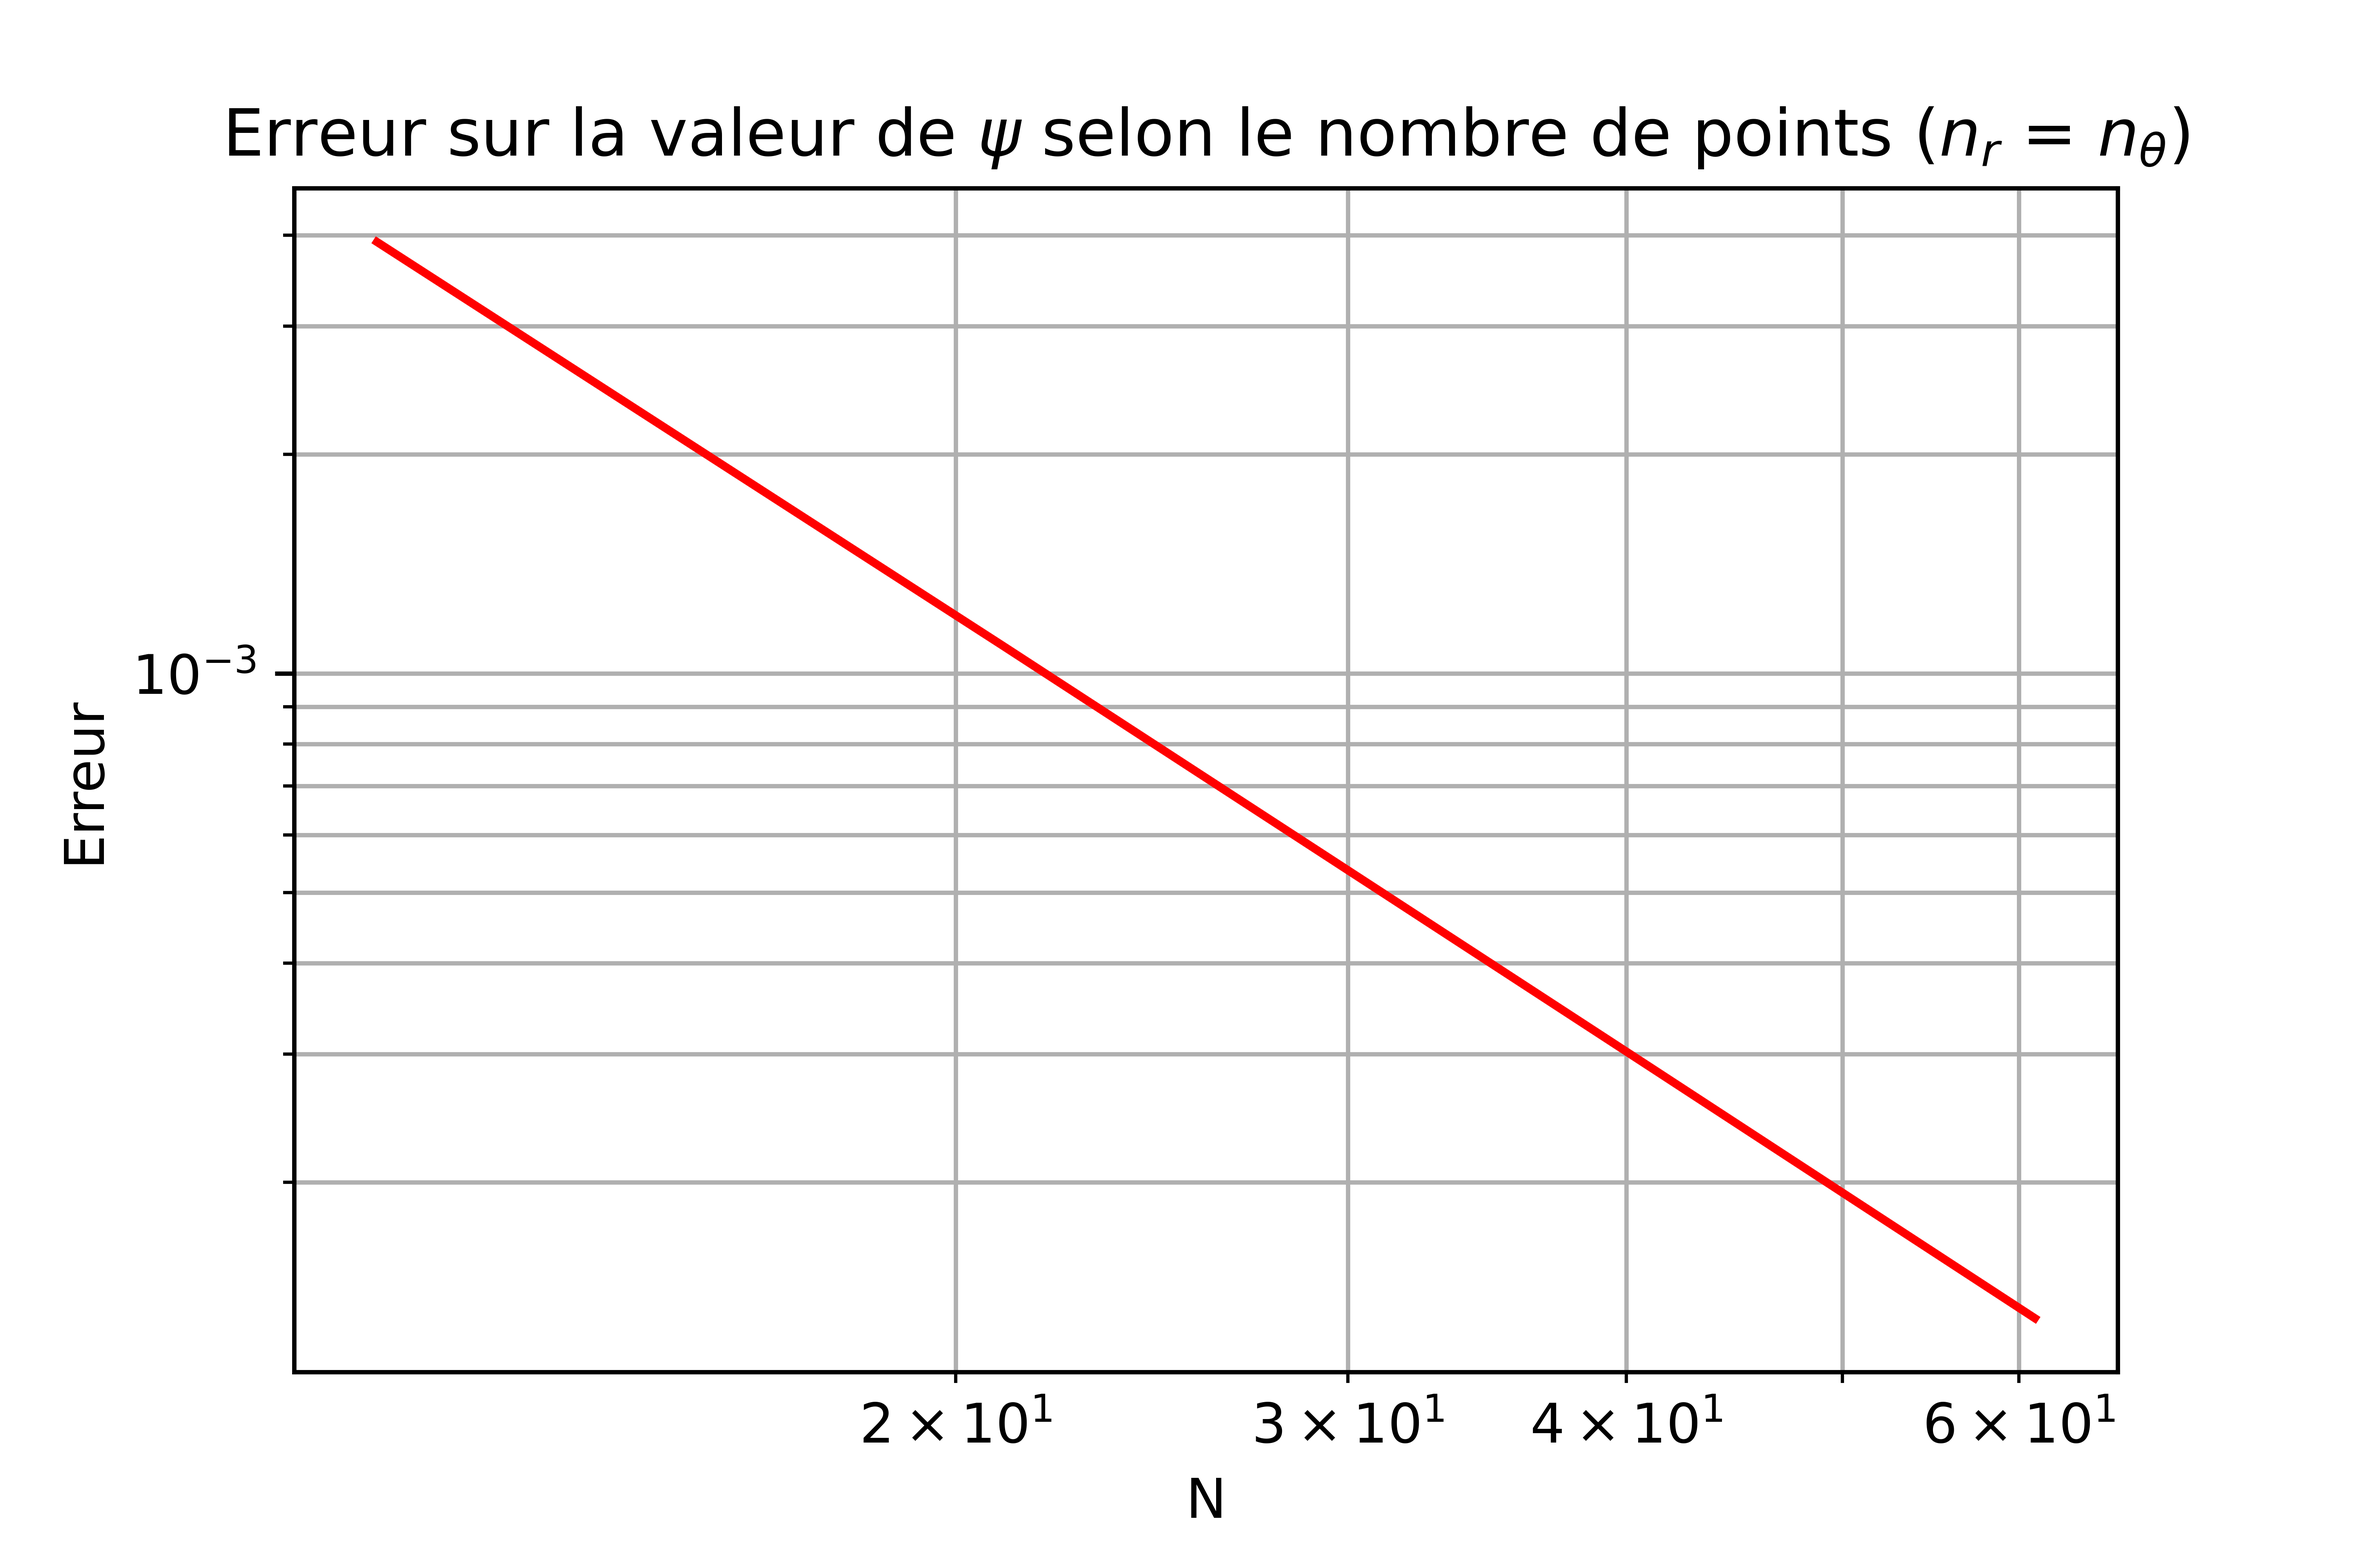
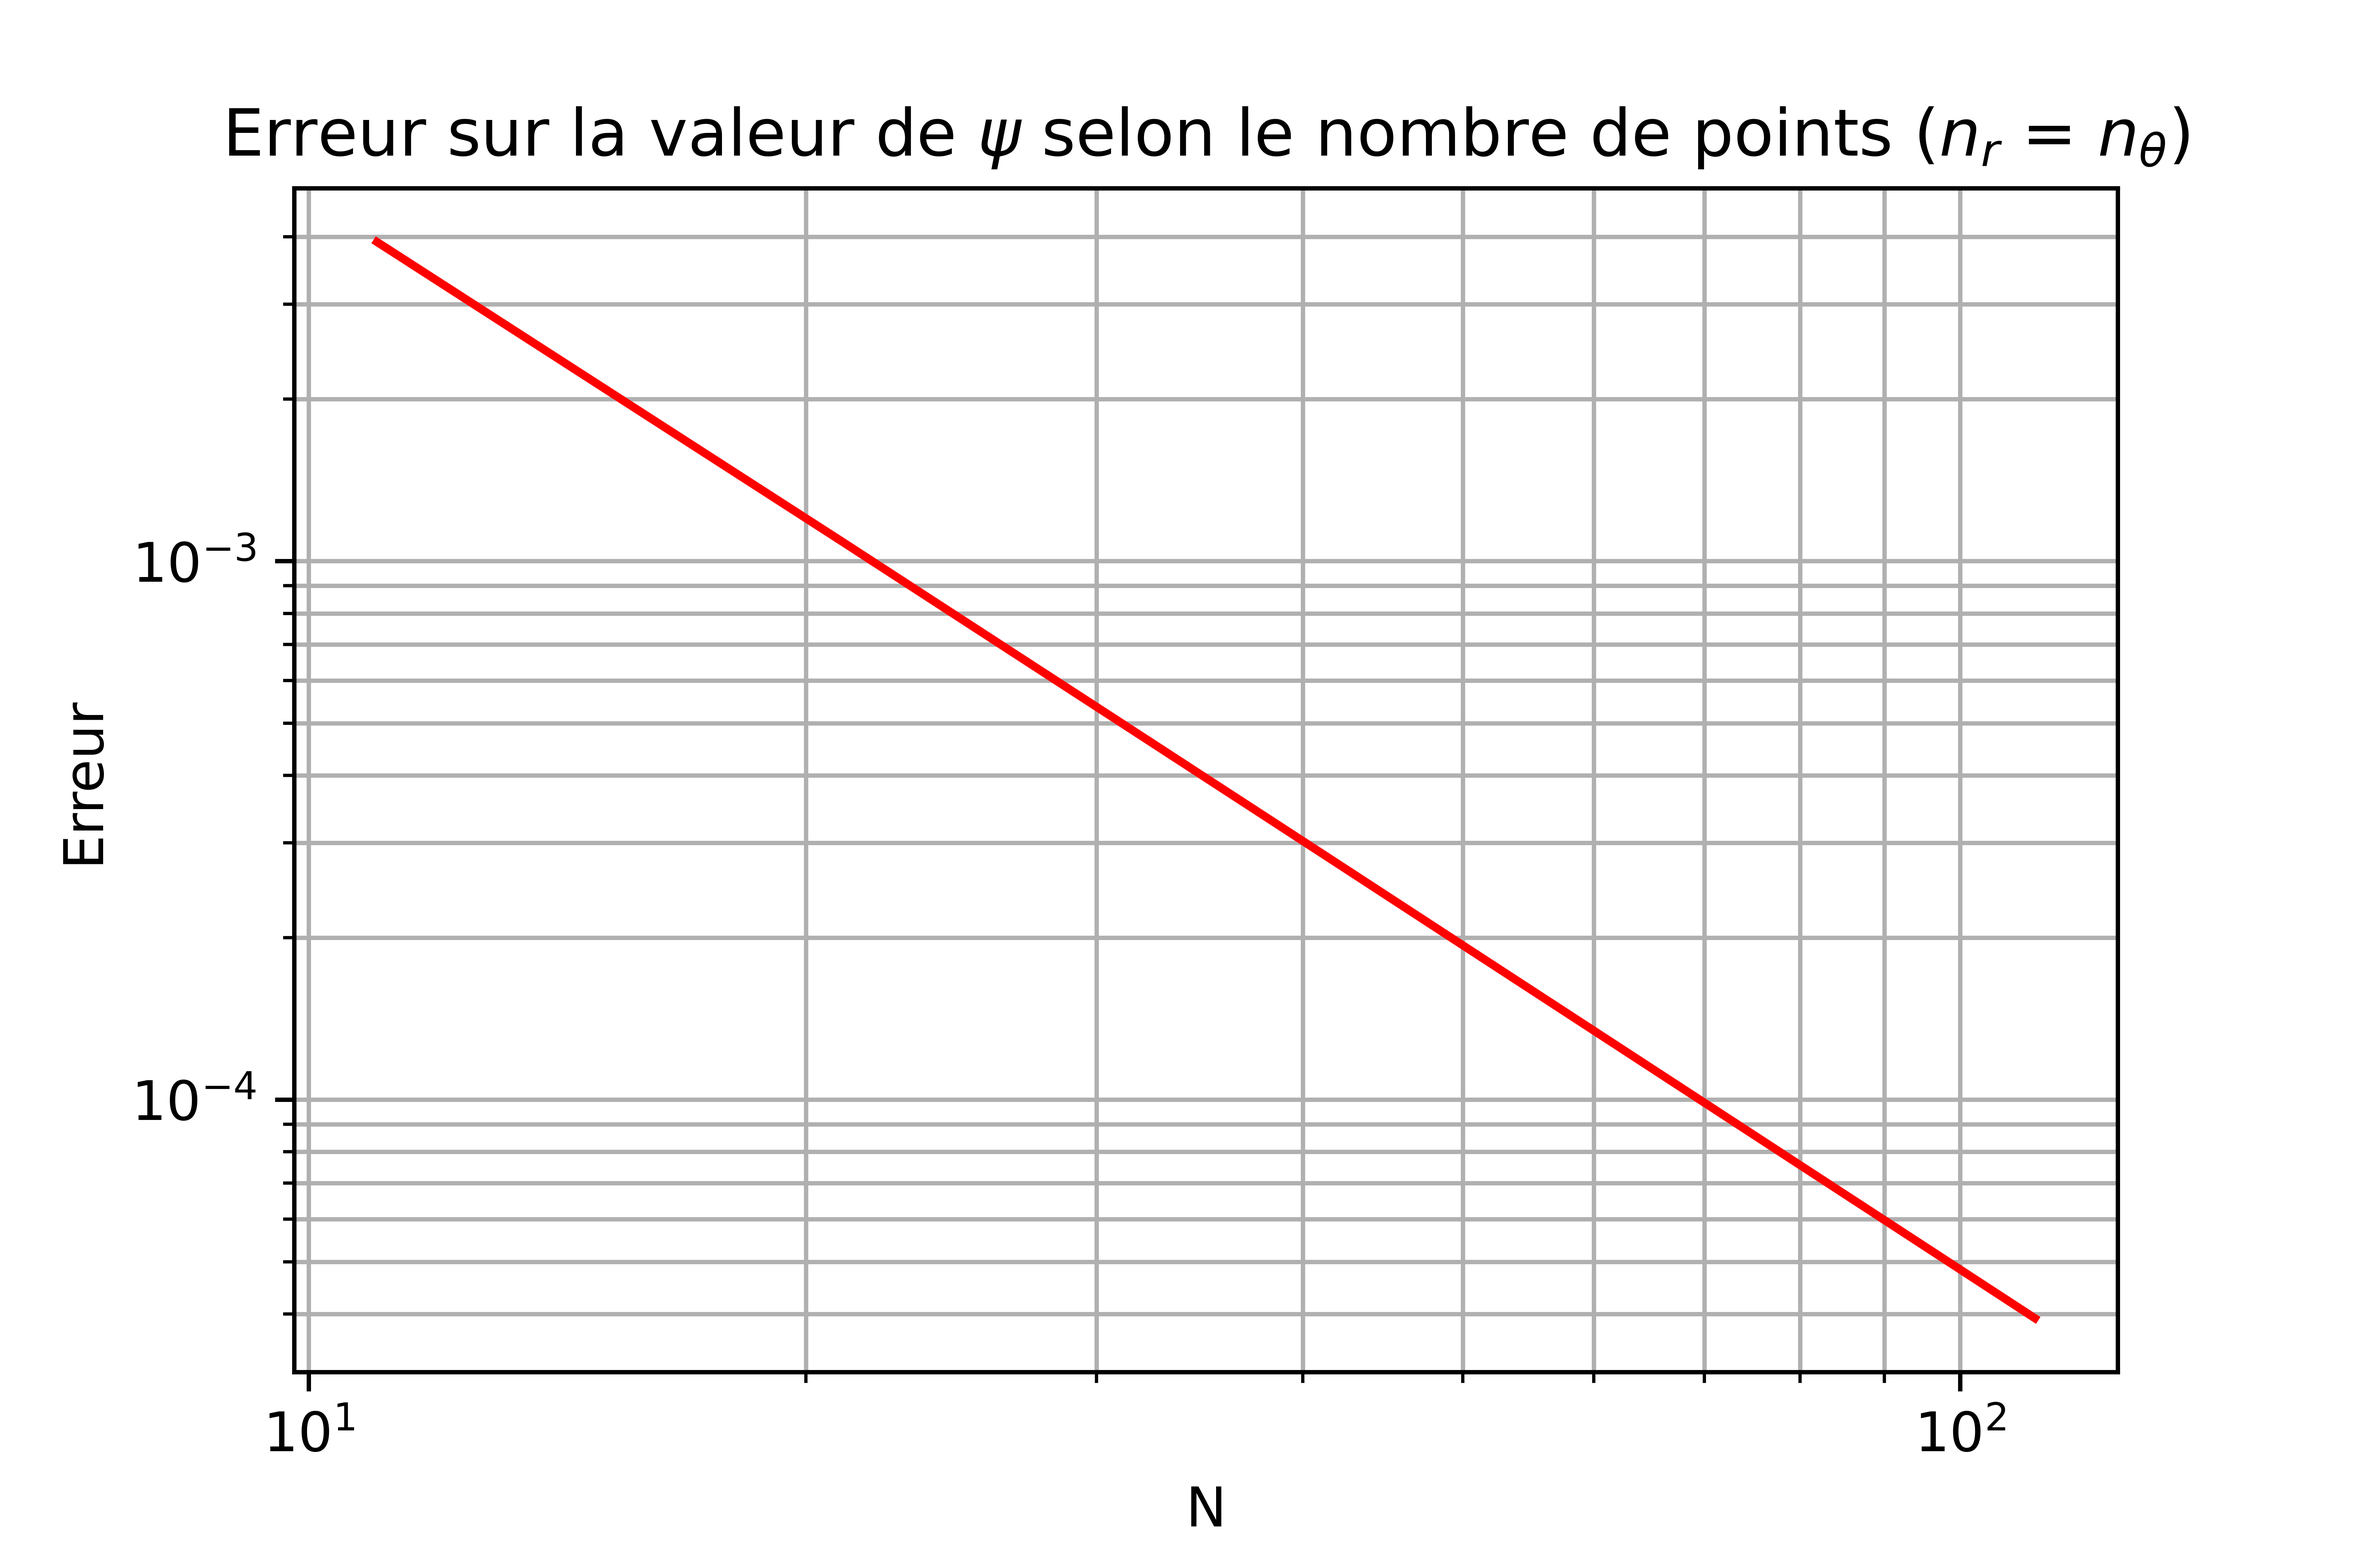
calcul ordre/pente corrigé

diff --git a/Code/Analyse/Erreur.py b/Code/Analyse/Erreur.py
@@ -32,7 +32,7 @@ prm = parametres()
 
 
 
-nr = np.arange(11,62,10)
+nr = np.arange(11,112,10)
 erreur_moy = np.zeros(len(nr))
 
 
@@ -50,7 +50,7 @@ for a,n in enumerate(nr):
     erreur_moy[a] = np.mean(abs(psi_exact - psi_num))
     
     
-ordre = np.log10(abs(erreur_moy[-1]-erreur_moy[0]))/np.log10(abs(nr[-1]-nr[0]))  
+ordre =abs(np.log10(erreur_moy[-1])-np.log10(erreur_moy[0]))/abs(np.log10(nr[-1])-np.log10(nr[0]))  
 plt.loglog(nr,erreur_moy,'-r')
 plt.title(r'Erreur sur la valeur de $\psi$ selon le nombre de points ($n_r$ = $n_{\theta}$)')
 plt.xlabel('N')
